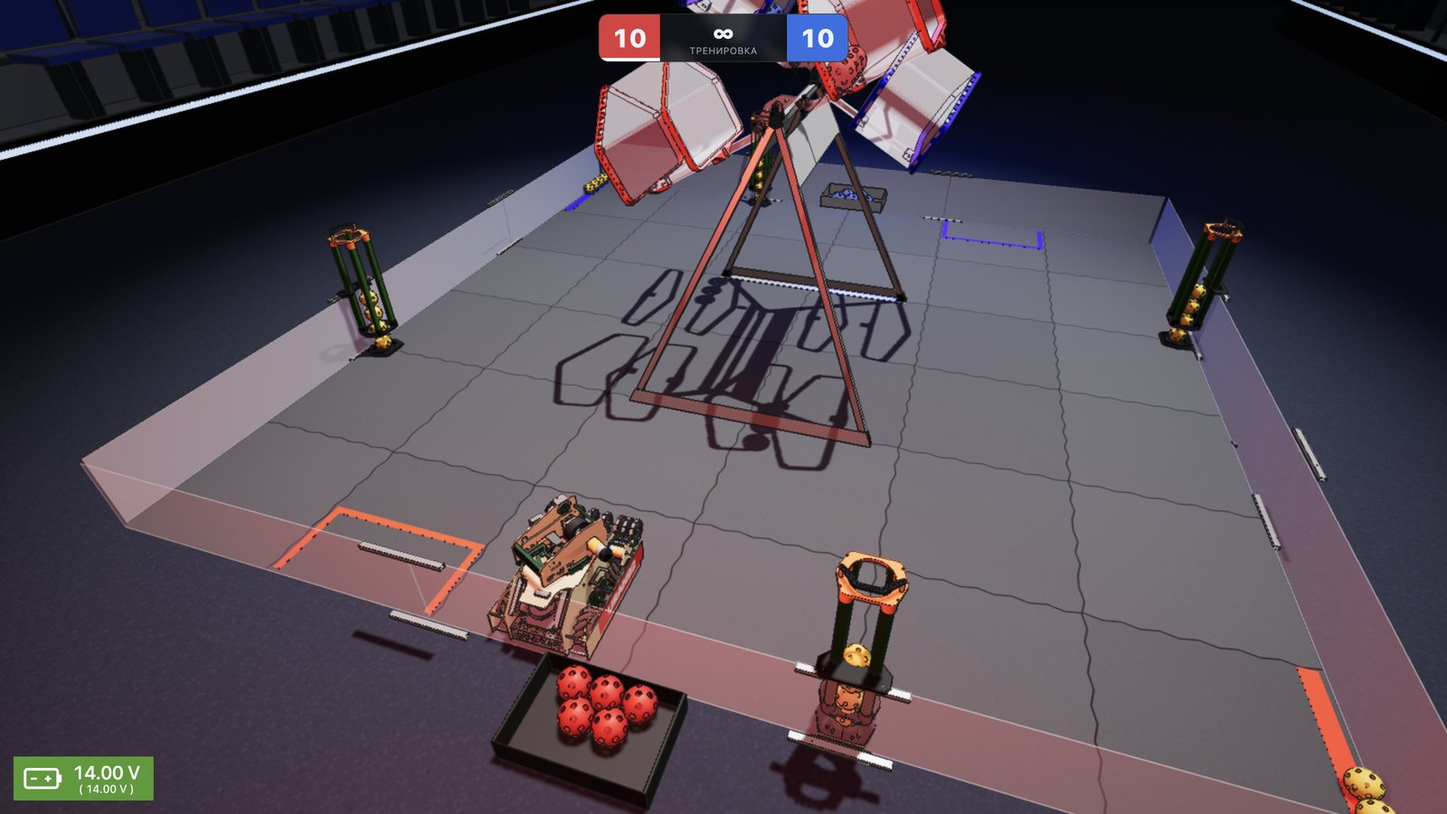
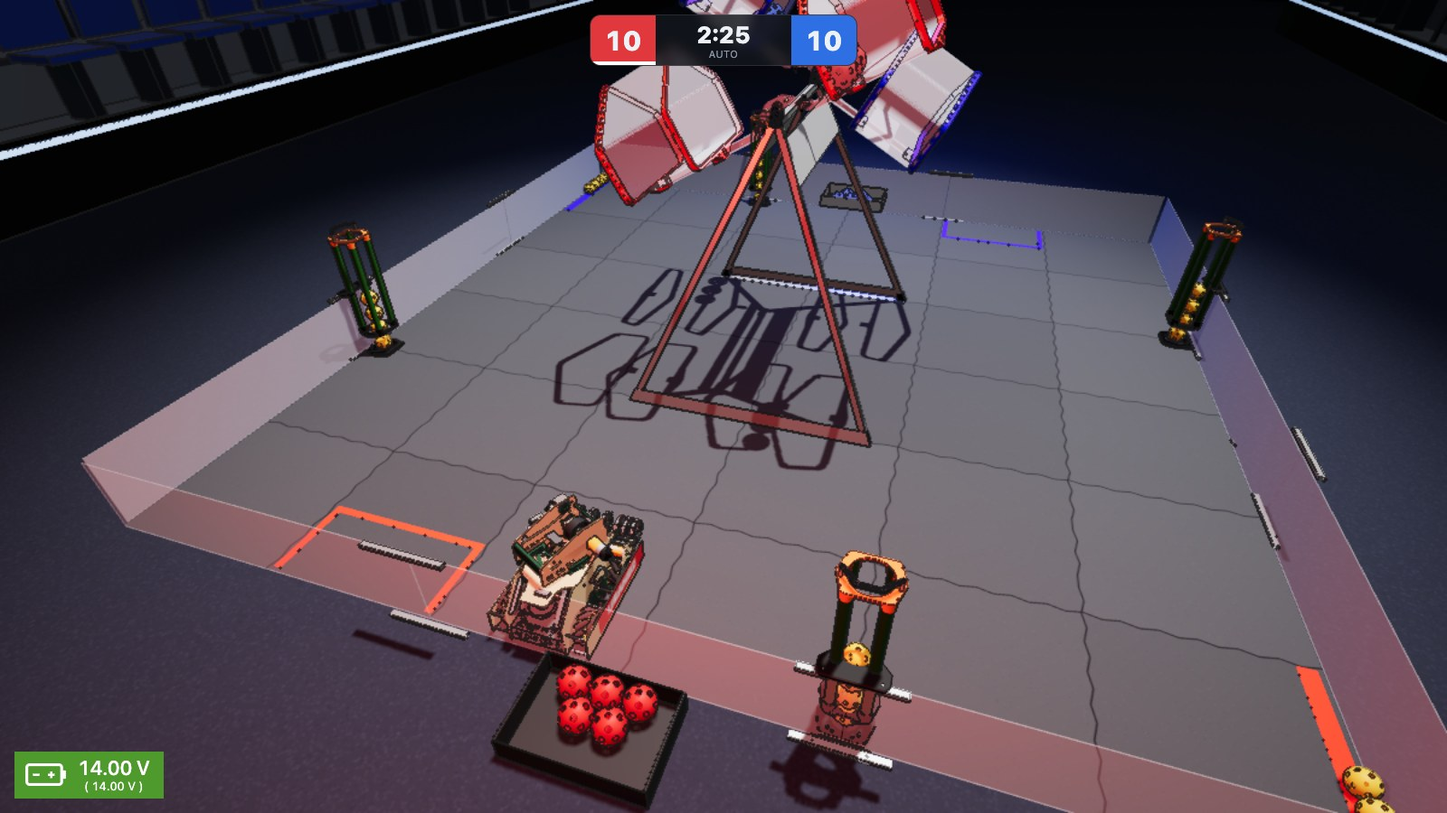
Online 1 vs 1 rooms; README screenshots in English
- Online → "1 vs 1 room" or "2 vs 2 room". A 1 vs 1 room has the driver
  spots Red 1 and Blue 1; anyone else in it watches. The lobby shows the
  format and only its spots, and the server refuses the others.
- Clients that send no format (the desktop app 1.0.0) still get 2 vs 2 rooms.
- The README screenshots show the English interface.

diff --git a/src/ui/i18n.ts b/src/ui/i18n.ts
@@ -25,7 +25,7 @@ const ru = {
   'arena.subtitle': 'Симулятор FIRST Tech Challenge',
 
   'menu.play': 'Играть',
-  'menu.online': 'Онлайн 2 на 2',
+  'menu.online': 'Онлайн',
   'menu.records': 'Рекорды',
   'menu.settings': 'Настройки',
   'menu.match': 'Матч 2:30',
@@ -207,8 +207,11 @@ const ru = {
 
   'online.name': 'Твоё имя (будет на табличке робота)',
   'online.newRoom': 'Новая комната',
-  'online.newRoomAbout': 'Получишь код из 4 букв и скажешь его друзьям.',
-  'online.create': 'Создать комнату',
+  'online.newRoomAbout': 'Выбери формат: получишь код из 4 букв и скажешь его друзьям.',
+  'online.create1v1': 'Комната 1 на 1',
+  'online.create2v2': 'Комната 2 на 2',
+  'online.1v1': '1 на 1',
+  'online.2v2': '2 на 2',
   'online.joinTitle': 'Войти по коду',
   'online.join': 'Войти',
   'online.server': 'Адрес сервера',
@@ -222,7 +225,7 @@ const ru = {
   'lobby.title': 'Комната',
   'lobby.you': ' (ты)',
   'lobby.free': 'Свободно — занять',
-  'lobby.share': 'Скажи код друзьям: «Онлайн 2 на 2 → Войти по коду». ',
+  'lobby.share': 'Скажи код друзьям: «Онлайн → Войти по коду». ',
   'lobby.server': 'Сервер: {url}',
   'lobby.watching': 'Смотрят: {names}',
   'lobby.running': 'Идёт игра — ты присоединишься со следующего старта',
@@ -235,6 +238,7 @@ const ru = {
   'error.noRoom': 'Комната с таким кодом не найдена',
   'error.roomFull': 'Комната заполнена (4 игрока)',
   'error.slotTaken': 'Это место уже занято',
+  'error.slotClosed': 'В комнате 1 на 1 только Red 1 и Blue 1',
   'error.matchRunning': 'Во время матча меняться нельзя',
   'error.hostOnly': 'Начать может только хост комнаты',
 };
@@ -254,7 +258,7 @@ const en: Record<TextKey, string> = {
   'arena.subtitle': 'FIRST Tech Challenge simulator',
 
   'menu.play': 'Play',
-  'menu.online': 'Online 2 vs 2',
+  'menu.online': 'Online',
   'menu.records': 'High scores',
   'menu.settings': 'Settings',
   'menu.match': 'Match 2:30',
@@ -436,8 +440,11 @@ const en: Record<TextKey, string> = {
 
   'online.name': 'Your name (shown on the robot\'s sign)',
   'online.newRoom': 'New room',
-  'online.newRoomAbout': 'You get a 4-letter code to give to your friends.',
-  'online.create': 'Create room',
+  'online.newRoomAbout': 'Pick a format and you get a 4-letter code to give to your friends.',
+  'online.create1v1': '1 vs 1 room',
+  'online.create2v2': '2 vs 2 room',
+  'online.1v1': '1 vs 1',
+  'online.2v2': '2 vs 2',
   'online.joinTitle': 'Join with a code',
   'online.join': 'Join',
   'online.server': 'Server address',
@@ -451,7 +458,7 @@ const en: Record<TextKey, string> = {
   'lobby.title': 'Room',
   'lobby.you': ' (you)',
   'lobby.free': 'Free — take it',
-  'lobby.share': 'Give your friends the code: "Online 2 vs 2 → Join with a code". ',
+  'lobby.share': 'Give your friends the code: "Online → Join with a code". ',
   'lobby.server': 'Server: {url}',
   'lobby.watching': 'Watching: {names}',
   'lobby.running': 'A game is on — you will join from the next start',
@@ -464,6 +471,7 @@ const en: Record<TextKey, string> = {
   'error.noRoom': 'No room with that code',
   'error.roomFull': 'The room is full (4 players)',
   'error.slotTaken': 'That spot is already taken',
+  'error.slotClosed': 'A 1 vs 1 room has only Red 1 and Blue 1',
   'error.matchRunning': 'You can\'t switch during a match',
   'error.hostOnly': 'Only the room host can start the game',
 };

diff --git a/src/ui/online.ts b/src/ui/online.ts
@@ -1,6 +1,7 @@
-// Online screens: connect (name, server, room code) and the room lobby with the four driver slots.
+// Online screens: connect (name, server, new 1 vs 1 or 2 vs 2 room, or a room code) and the room
+// lobby with its driver slots.
 
-import { normalizeCode, type RoomInfo } from '../net/protocol';
+import { normalizeCode, type RoomFormat, type RoomInfo } from '../net/protocol';
 import { robotById } from '../robot/robots';
 import { SLOT_NAMES, type Slot } from '../sim/types';
 import { h } from './dom';
@@ -9,7 +10,7 @@ import type { Screen } from './menus';
 import { MenuNav } from './MenuNav';
 
 export interface ConnectActions {
-  create(name: string, server: string): void;
+  create(name: string, server: string, format: RoomFormat): void;
   join(name: string, server: string, code: string): void;
   back(): void;
 }
@@ -34,7 +35,8 @@ export class ConnectScreen implements Screen {
         h('div', { class: 'panel' },
           ht('h3', {}, 'online.newRoom'),
           ht('p', { class: 'muted' }, 'online.newRoomAbout'),
-          ht('button', { class: 'btn btn-primary', onclick: () => this.go(() => actions.create(this.nameValue, this.server.value.trim())) }, 'online.create')),
+          ht('button', { class: 'btn btn-primary', onclick: () => this.create(actions, '1v1') }, 'online.create1v1'),
+          ht('button', { class: 'btn btn-primary', onclick: () => this.create(actions, '2v2') }, 'online.create2v2')),
         h('div', { class: 'panel' },
           ht('h3', {}, 'online.joinTitle'),
           this.code,
@@ -49,6 +51,10 @@ export class ConnectScreen implements Screen {
 
   private get nameValue(): string {
     return this.name.value;
+  }
+
+  private create(actions: ConnectActions, format: RoomFormat): void {
+    this.go(() => actions.create(this.nameValue, this.server.value.trim(), format));
   }
 
   private join(actions: ConnectActions): void {
@@ -97,14 +103,16 @@ export class LobbyScreen implements Screen {
       h('span', { class: 'slot-player' }, p ? `${p.name}${p.id === room.hostId ? ' ★' : ''}${mine ? t('lobby.you') : ''}` : t('lobby.free')),
       p ? h('span', { class: 'slot-robot' }, h('img', { src: robotById(p.robot).teamLogo, alt: '' }), robotById(p.robot).name) : '');
     };
+    // Servers from before 1 vs 1 send no format: their rooms are 2 vs 2.
+    const format = room.format ?? '2v2';
     const watchers = room.players.filter(p => !p.slot);
     this.el.replaceChildren(
-      h('h2', {}, t('lobby.title')),
+      h('h2', {}, `${t('lobby.title')} · ${t(format === '1v1' ? 'online.1v1' : 'online.2v2')}`),
       h('div', { class: 'room-code' }, room.code),
       h('p', { class: 'muted' }, t('lobby.share'), t('lobby.server', { url: serverUrl })),
       h('div', { class: 'slots' },
-        h('div', { class: 'slot-col' }, card('red1'), card('red2')),
-        h('div', { class: 'slot-col' }, card('blue1'), card('blue2'))),
+        h('div', { class: 'slot-col' }, card('red1'), format === '2v2' ? card('red2') : ''),
+        h('div', { class: 'slot-col' }, card('blue1'), format === '2v2' ? card('blue2') : '')),
       watchers.length ? h('p', { class: 'muted' }, t('lobby.watching', { names: watchers.map(p => p.name).join(', ') })) : '',
       room.running ? h('p', { class: 'warn' }, t('lobby.running')) : '',
       h('div', { class: 'menu-buttons' },

diff --git a/server/Room.ts b/server/Room.ts
@@ -1,7 +1,8 @@
-// One online room: up to 4 players in slots Red 1/2 and Blue 1/2, and its simulation.
+// One online room: up to 4 players, 1 vs 1 (Red 1, Blue 1) or 2 vs 2 (Red 1/2, Blue 1/2), with the
+// rest watching, and its simulation.
 
 import type { FieldLayout } from '../src/field/layout';
-import { CODE_LETTERS, MAX_PLAYERS, cleanName, type RoomInfo, type ServerMessage } from '../src/net/protocol';
+import { CODE_LETTERS, FORMAT_SLOTS, MAX_PLAYERS, cleanName, type RoomFormat, type RoomInfo, type ServerMessage } from '../src/net/protocol';
 import type { ColliderPart } from '../src/sim/colliders';
 import { DEFAULT_RULES, type RuleOptions } from '../src/sim/Referee';
 import { PHYSICS_DT, Simulation } from '../src/sim/Simulation';
@@ -40,7 +41,13 @@ export class Room {
   private accumulator = 0;
   private snapshotTimer = 0;
 
-  constructor(readonly code: string, private readonly layout: FieldLayout, private readonly colliders: ColliderPart[], private readonly snapshotInterval: number) {}
+  constructor(
+    readonly code: string,
+    private readonly layout: FieldLayout,
+    private readonly colliders: ColliderPart[],
+    private readonly snapshotInterval: number,
+    readonly format: RoomFormat = '2v2',
+  ) {}
 
   get size(): number {
     return this.players.size;
@@ -50,6 +57,7 @@ export class Room {
     return {
       code: this.code,
       hostId: this.hostId,
+      format: this.format,
       players: [...this.players.values()].map(p => ({ id: p.id, name: p.name, robot: p.robot, slot: p.slot })),
       running: this.running,
       rules: this.rules,
@@ -64,12 +72,11 @@ export class Room {
     this.broadcast({ t: 'room', room: this.info() });
   }
 
-  /** Adds a player in the first free slot. Returns false when the room is full. */
+  /** Adds a player in the first free driver spot, or as a watcher. Returns false when the room is full. */
   join(id: number, name: string, robot: string, peer: Peer): boolean {
     if (this.players.size >= MAX_PLAYERS) return false;
     const used = new Set([...this.players.values()].map(p => p.slot));
-    // Alternate alliances as people join: Red 1, Blue 1, Red 2, Blue 2.
-    const slot = (['red1', 'blue1', 'red2', 'blue2'] as Slot[]).find(s => !used.has(s)) ?? null;
+    const slot = FORMAT_SLOTS[this.format].find(s => !used.has(s)) ?? null;
     this.players.set(id, { id, name: cleanName(name), robot, slot, peer });
     if (this.hostId < 0) this.hostId = id;
     if (this.running === 'practice' && slot) this.sim?.addRobot(slot, cleanName(name), robot);
@@ -90,6 +97,7 @@ export class Room {
   setSlot(id: number, slot: Slot | null): void {
     const p = this.players.get(id);
     if (!p || p.slot === slot) return;
+    if (slot && !FORMAT_SLOTS[this.format].includes(slot)) return p.peer.sendText({ t: 'error', code: 'slotClosed', message: 'В комнате 1 на 1 только Red 1 и Blue 1' });
     if (slot && [...this.players.values()].some(o => o.slot === slot)) return p.peer.sendText({ t: 'error', code: 'slotTaken', message: 'Это место уже занято' });
     if (this.running === 'match') return p.peer.sendText({ t: 'error', code: 'matchRunning', message: 'Во время матча меняться нельзя' });
     if (p.slot) this.sim?.removeRobot(p.slot);

diff --git a/tests/server.test.ts b/tests/server.test.ts
@@ -63,6 +63,37 @@ describe('game server lobby', () => {
     expect(room.hostId).toBe(host.id);
   });
 
+  it('makes 1 vs 1 rooms: two drivers, everyone else watches', () => {
+    const lobby = new Lobby(layout, colliders);
+    const host = connect(lobby, 'Max');
+    lobby.handle(host.id, { t: 'create', format: '1v1' });
+    const code = host.peer.room!.code;
+    const friend = connect(lobby, 'Anya');
+    lobby.handle(friend.id, { t: 'join', code });
+    const third = connect(lobby, 'Lev');
+    lobby.handle(third.id, { t: 'join', code });
+    expect(host.peer.room!.format).toBe('1v1');
+    expect(host.peer.room!.players.map(p => [p.name, p.slot])).toEqual([['Max', 'red1'], ['Anya', 'blue1'], ['Lev', null]]);
+
+    lobby.handle(third.id, { t: 'slot', slot: 'red2' });
+    expect(third.peer.errorCodes).toEqual(['slotClosed']);
+    expect(third.peer.room!.players.find(p => p.id === third.id)!.slot).toBeNull();
+
+    lobby.handle(host.id, { t: 'start', mode: 'match' });
+    runFor(lobby, 0.1);
+    expect(third.peer.snapshots.at(-1)!.robots.map(r => r.slot)).toEqual(['red1', 'blue1']);
+  });
+
+  it('makes 2 vs 2 rooms for clients that send no format', () => {
+    const lobby = new Lobby(layout, colliders);
+    const host = connect(lobby, 'Max');
+    lobby.handle(host.id, { t: 'create' });
+    expect(host.peer.room!.format).toBe('2v2');
+    lobby.handle(host.id, { t: 'slot', slot: 'blue2' });
+    expect(host.peer.room!.players[0].slot).toBe('blue2');
+    expect(host.peer.errorCodes).toEqual([]);
+  });
+
   it('rejects wrong codes, a fifth player and starts by guests', () => {
     const lobby = new Lobby(layout, colliders);
     const host = connect(lobby, 'A');

diff --git a/src/net/protocol.ts b/src/net/protocol.ts
@@ -11,6 +11,14 @@ export const MAX_PLAYERS = 4;
 /** Snapshots per second sent to every player */
 export const SNAPSHOT_RATE = 30;
 
+/** One or two robots per alliance; everyone else in the room watches. */
+export type RoomFormat = '1v1' | '2v2';
+/** The driver spots of each format, in the order players fill them (alliances alternate). */
+export const FORMAT_SLOTS: Record<RoomFormat, Slot[]> = {
+  '1v1': ['red1', 'blue1'],
+  '2v2': ['red1', 'blue1', 'red2', 'blue2'],
+};
+
 export interface RoomPlayer {
   id: number;
   name: string;
@@ -23,6 +31,7 @@ export interface RoomPlayer {
 export interface RoomInfo {
   code: string;
   hostId: number;
+  format: RoomFormat;
   players: RoomPlayer[];
   /** What is being played right now, or null in the lobby */
   running: GameMode | null;
@@ -32,7 +41,8 @@ export interface RoomInfo {
 
 export type ClientMessage =
   | { t: 'hello'; name: string; robot?: string }
-  | { t: 'create' }
+  // No format (clients before 1 vs 1) makes a 2 vs 2 room.
+  | { t: 'create'; format?: RoomFormat }
   | { t: 'join'; code: string }
   | { t: 'slot'; slot: Slot | null }
   | { t: 'start'; mode: GameMode; rules?: RuleOptions }
@@ -41,7 +51,7 @@ export type ClientMessage =
   | { t: 'leave' };
 
 /** Why the server refused something; the browser shows it in the player's language (ui/i18n.ts). */
-export type ErrorCode = 'serverFull' | 'noRoom' | 'roomFull' | 'slotTaken' | 'matchRunning' | 'hostOnly';
+export type ErrorCode = 'serverFull' | 'noRoom' | 'roomFull' | 'slotTaken' | 'slotClosed' | 'matchRunning' | 'hostOnly';
 
 export type ServerMessage =
   | { t: 'welcome'; id: number }

diff --git a/src/net/NetSession.ts b/src/net/NetSession.ts
@@ -6,7 +6,7 @@ import type { GameMode, RobotInput, Slot } from '../sim/types';
 import { SnapshotBuffer } from './interpolate';
 import type { RuleOptions } from '../sim/Referee';
 import { t } from '../ui/i18n';
-import { DEFAULT_PORT, type ClientMessage, type RoomInfo, type ServerMessage } from './protocol';
+import { DEFAULT_PORT, type ClientMessage, type RoomFormat, type RoomInfo, type ServerMessage } from './protocol';
 
 export interface NetEvents extends SessionEvents {
   room(room: RoomInfo | null): void;
@@ -91,8 +91,8 @@ export class NetSession implements Session {
     return this.room?.players.find(p => p.id === this.myId)?.slot ?? null;
   }
 
-  create(): void {
-    this.send({ t: 'create' });
+  create(format: RoomFormat): void {
+    this.send({ t: 'create', format });
   }
 
   join(code: string): void {

diff --git a/server/Lobby.ts b/server/Lobby.ts
@@ -50,7 +50,7 @@ export class Lobby {
         if (this.rooms.size >= MAX_ROOMS) return c.peer.sendText({ t: 'error', code: 'serverFull', message: 'Сервер заполнен, попробуй позже' });
         this.leaveRoom(id);
         const code = randomCode(code => this.rooms.has(code));
-        const room = new Room(code, this.layout, this.colliders, 1 / SNAPSHOT_RATE);
+        const room = new Room(code, this.layout, this.colliders, 1 / SNAPSHOT_RATE, msg.format === '1v1' ? '1v1' : '2v2');
         this.rooms.set(code, room);
         this.enter(c, room);
         break;

diff --git a/src/game/Game.ts b/src/game/Game.ts
@@ -225,7 +225,7 @@ export class Game {
         menu: () => this.toMenu(),
       }),
       connect: new ConnectScreen({ name: this.settings.name, server: this.settings.server }, {
-        create: (name, server) => this.connect(name, server, net => net.create()),
+        create: (name, server, format) => this.connect(name, server, net => net.create(format)),
         join: (name, server, code) => this.connect(name, server, net => net.join(code)),
         // Also drops a connection still on its way, so its room can't open the lobby over the menu.
         back: () => this.toMenu(),

diff --git a/README.ru.md b/README.ru.md
@@ -8,7 +8,7 @@
 
 ![Главное меню](docs/menu.jpg)
 
-Водишь робота **URAN V1** (мекан-шасси, автоматическая турель, интейк и шутер) по полю BIOBUZZ: собираешь POLLEN и NECTAR, переворачиваешь улей, играешь «Матч 2:30» с подсчётом очков и судьёй по мануалу или тренируешься без таймера. **Онлайн 2 на 2**: до 4 игроков в комнате по коду из 4 букв. Есть таблица рекордов для каждого робота. Интерфейс на русском и английском.
+Водишь робота **URAN V1** (мекан-шасси, автоматическая турель, интейк и шутер) по полю BIOBUZZ: собираешь POLLEN и NECTAR, переворачиваешь улей, играешь «Матч 2:30» с подсчётом очков и судьёй по мануалу или тренируешься без таймера. **Онлайн 1 на 1 или 2 на 2**: друзья заходят в твою комнату по коду из 4 букв. Есть таблица рекордов для каждого робота. Интерфейс на русском и английском.
 
 ![В игре](docs/game.jpg)
 
@@ -71,7 +71,7 @@ flowchart LR
 
 **Приложение и CI.** Та же сборка работает в Electron через свой протокол `app://`, поэтому fetch, WebAssembly и localStorage работают как на сайте. GitHub Actions собирает zip для Windows, macOS (universal) и Linux на машинах с этими системами.
 
-**Тесты.** 88 тестов на Vitest в 13 файлах: симуляция (очки, переворот улья, аккумулятор, трансфер), правила судьи, комнаты сервера и настройки правил, назначение кнопок, рекорды и переводы.
+**Тесты.** 90 тестов на Vitest в 13 файлах: симуляция (очки, переворот улья, аккумулятор, трансфер), правила судьи, комнаты сервера и настройки правил, назначение кнопок, рекорды и переводы.
 
 | Область | Инструменты |
 |---|---|
@@ -115,7 +115,7 @@ node tools/convert-robot.mjs robot-raw.glb public/assets/robots/uran-v1.glb tool
 
 - **Матч 2:30** — как на соревнованиях: АВТОНОМ 30 с → перерыв 3 с → TELEOP 2:00, подсчёт очков по мануалу, в конце табло как на FTC (R — ещё раз, Esc — в меню). Автонома пока нет: в эти 30 секунд управляешь сам.
 - **Тренировка** — без таймера, очки и перевороты считаются.
-- **Онлайн 2 на 2** — до 4 игроков в комнате (Red 1/2, Blue 1/2), матч или совместная тренировка.
+- **Онлайн** — комната 1 на 1 (Red 1, Blue 1) или 2 на 2 (Red 1/2, Blue 1/2), матч или совместная тренировка. В комнате до 4 человек; кому не хватило места водителя, смотрят.
 
 Мяч, вылетевший за поле, через 5 секунд возвращается (мануал 10.8.2): POLLEN кладётся на поле у ближайшей стенки, NECTAR отдаётся человеку-игроку своего альянса, и тот может сразу ввести его снова (G427).
 
@@ -166,7 +166,7 @@ npm run dev
 npm run server
 ```
 
-Дальше «Онлайн 2 на 2 → Создать комнату», и друзья входят по коду из 4 букв.
+Дальше «Онлайн → Комната 1 на 1» или «Комната 2 на 2», и друзья входят по коду из 4 букв.
 
 - **Друзья в той же Wi-Fi сети:** вместо `npm run dev` запусти `npm run dev:lan`, друзья открывают `http://<IP твоего Mac>:5173`.
 - **Через интернет:** сервер размещается на [Render](https://render.com) по файлу `render.yaml` (см. «Размещение в интернете» ниже).

diff --git a/README.md b/README.md
@@ -8,7 +8,7 @@
 
 ![Main menu](docs/menu.jpg)
 
-Drive **URAN V1**, a real competition robot built from its team's CAD (mecanum drive, auto-aiming turret, intake and flywheel shooter), around the BIOBUZZ field. Collect POLLEN and NECTAR, launch them into your HIVE to tip it, and play full **2:30 matches** with live scoring and an automatic referee, or practice without a clock. Play **online 2 vs 2** with friends: up to four players join a room with a 4-letter code. Every robot has its own **top 100 high score** table. The interface is in English and Russian.
+Drive **URAN V1**, a real competition robot built from its team's CAD (mecanum drive, auto-aiming turret, intake and flywheel shooter), around the BIOBUZZ field. Collect POLLEN and NECTAR, launch them into your HIVE to tip it, and play full **2:30 matches** with live scoring and an automatic referee, or practice without a clock. Play **online 1 vs 1 or 2 vs 2** with friends: they join your room with a 4-letter code. Every robot has its own **top 100 high score** table. The interface is in English and Russian.
 
 ![In game](docs/game.jpg)
 
@@ -71,7 +71,7 @@ flowchart LR
 
 **Desktop app and CI.** The same build runs in Electron, served over a custom `app://` protocol so that fetch, WebAssembly and localStorage work as on the website. GitHub Actions builds the Windows, macOS (universal) and Linux zips on native runners.
 
-**Tests.** 88 Vitest tests in 13 files cover the simulation (scoring, HIVE tipping, battery, transfer), the referee rules, server rooms and house rules, input bindings, high scores and translations.
+**Tests.** 90 Vitest tests in 13 files cover the simulation (scoring, HIVE tipping, battery, transfer), the referee rules, server rooms and house rules, input bindings, high scores and translations.
 
 | Area | Tools |
 |---|---|
@@ -115,7 +115,7 @@ node tools/convert-robot.mjs robot-raw.glb public/assets/robots/uran-v1.glb tool
 
 - **Match 2:30**: like at a competition: AUTO 30 s → 3 s break → TELEOP 2:00, scoring per the game manual, and an FTC-style results screen at the end (R to play again, Esc for the menu). There is no autonomous code yet: you drive during those 30 seconds yourself.
 - **Practice**: no timer; points and HIVE tips are still counted.
-- **Online 2 vs 2**: up to 4 players per room (Red 1/2, Blue 1/2), a match or a shared practice.
+- **Online**: a 1 vs 1 room (Red 1, Blue 1) or a 2 vs 2 room (Red 1/2, Blue 1/2), a match or a shared practice. Up to 4 people per room; anyone without a driver spot watches.
 
 A ball that leaves the field comes back after 5 seconds (manual 10.8.2): POLLEN is placed on the field next to the nearest wall, and NECTAR goes to that alliance's human player, who can bring it back in right away (G427).
 
@@ -166,7 +166,7 @@ npm run dev
 npm run server
 ```
 
-Then **Online 2 vs 2 → Create room**, and friends join with the 4-letter code.
+Then **Online → 1 vs 1 room** or **2 vs 2 room**, and friends join with the 4-letter code.
 
 - **Friends on the same Wi-Fi:** run `npm run dev:lan` instead of `npm run dev`; friends open `http://<your Mac's IP>:5173`.
 - **Over the internet:** the server is hosted on [Render](https://render.com) from `render.yaml` (see "Hosting online" below).
@@ -177,7 +177,7 @@ The production build is one process that serves both the game and the rooms:
 npm run build && npm run build:server && PORT=8787 npm start
 ```
 
-The server address can be changed under **Online 2 vs 2 → Server address** or with a `?server=wss://…` link.
+The server address can be changed under **Online → Server address** or with a `?server=wss://…` link.
 
 ## Settings
 
